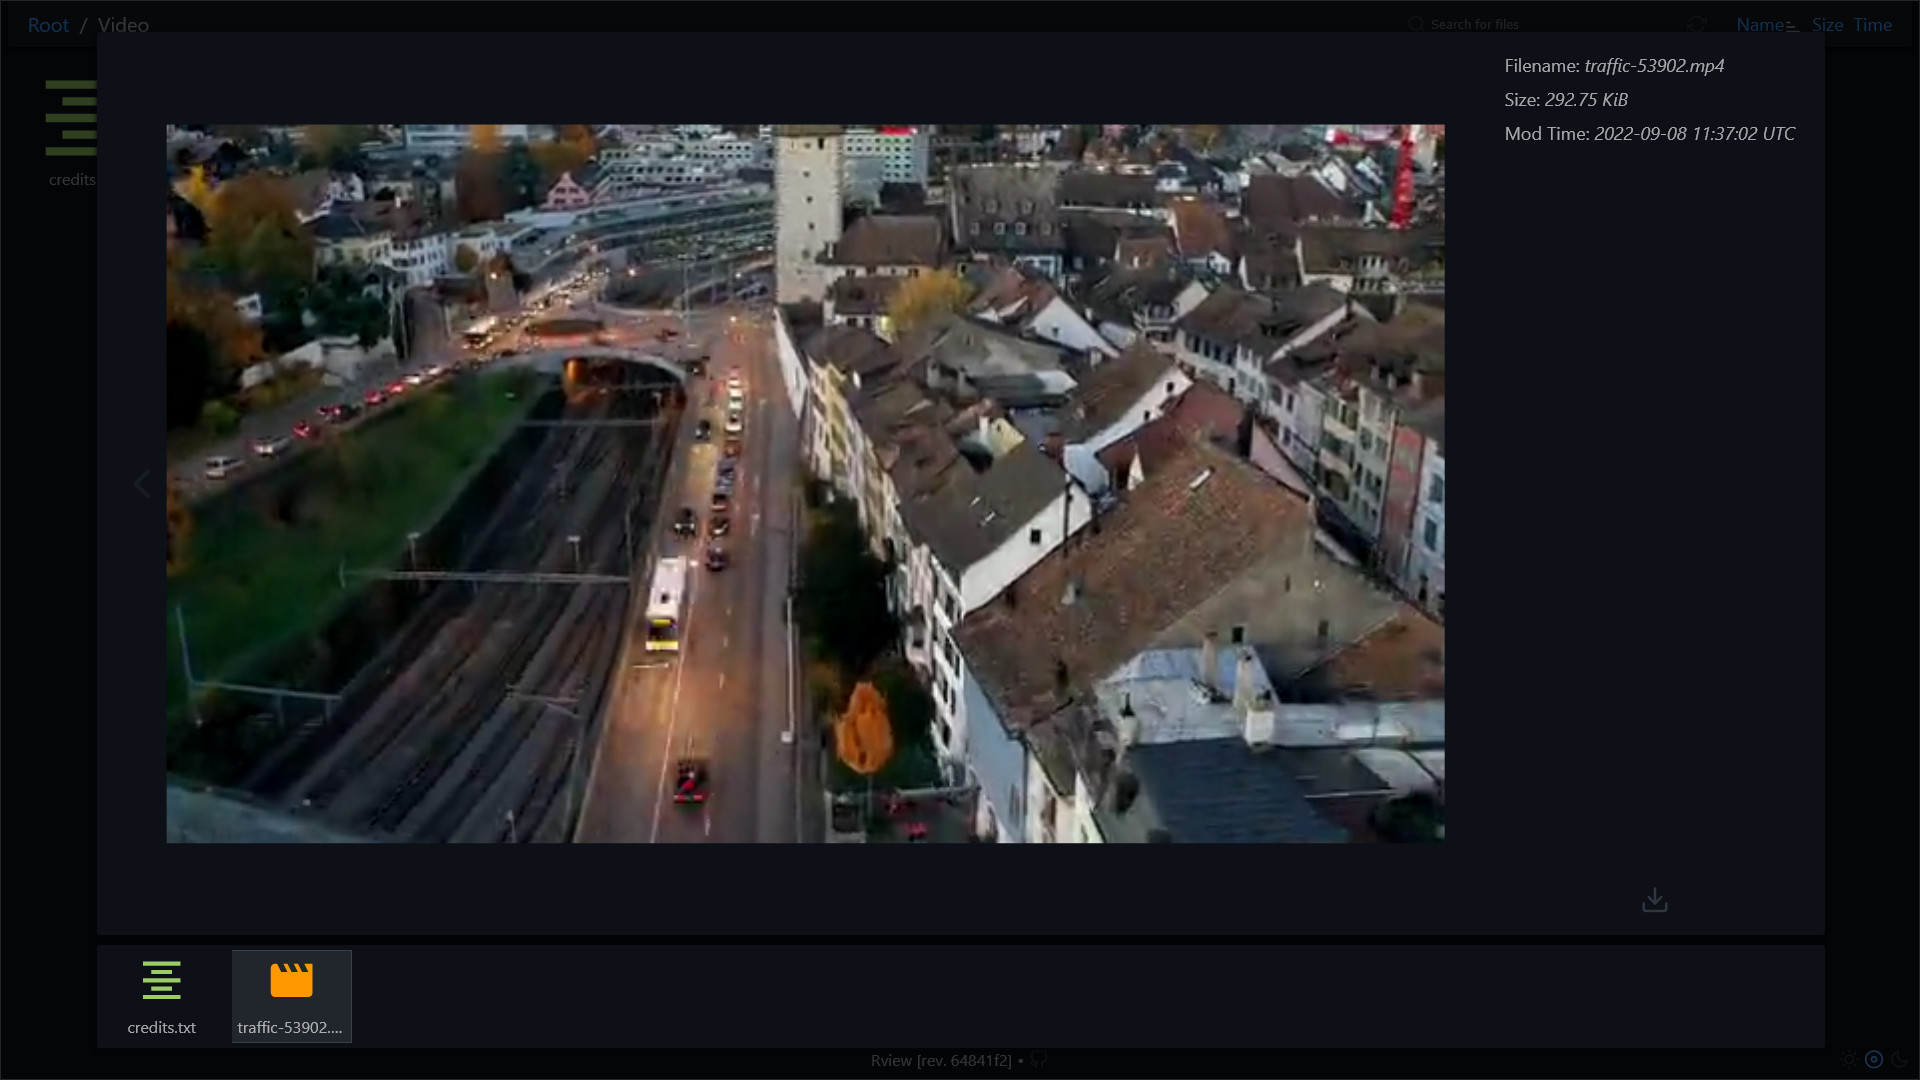
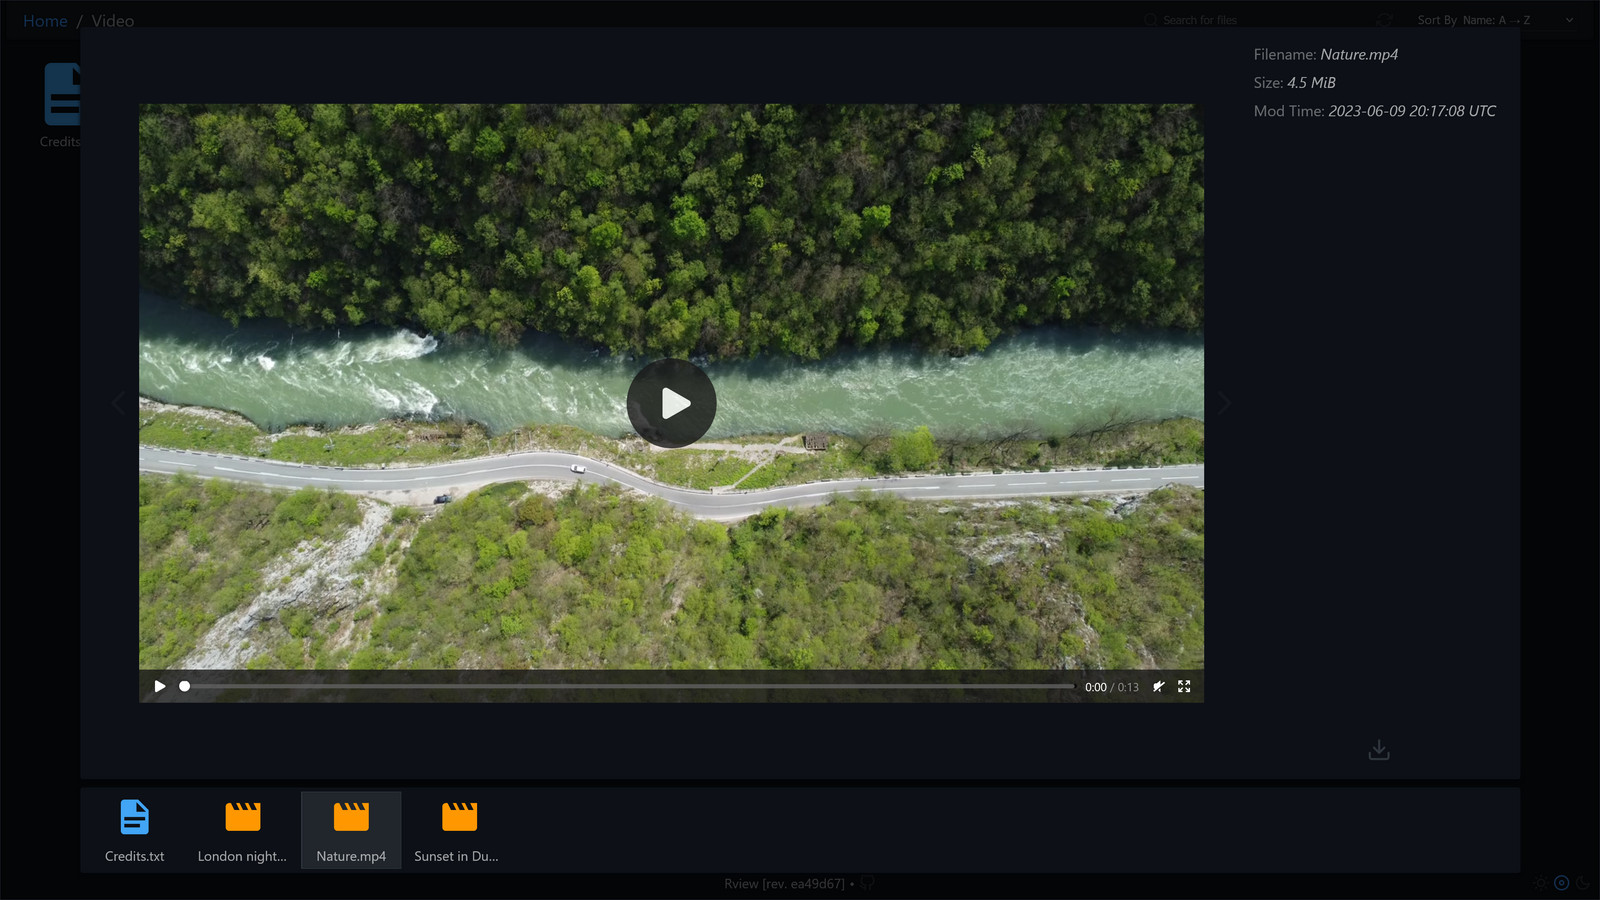
update screenshots

diff --git a/docs/Screenshots.md b/docs/Screenshots.md
@@ -10,8 +10,7 @@
 
 ## Dirs & Files
 
-<img src="screenshots/dir_root.jpg"></img>
-<img src="screenshots/dir_images.jpg"></img>
+<img src="screenshots/dir_home.jpg"></img>
 
 ## Previews
 
@@ -37,7 +36,7 @@
    add the following code to `common.css`:
 
    ```css
-   body,
+   #app,
    .preview-close-layer {
      border: 1px solid #21262d;
    }
@@ -45,17 +44,10 @@
 
    Note: `#21262d` is `var(--color-border-muted)` on GitHub.
 
-2. Use `tests/testdata` as `RCLONE_TARGET`.
-3. Remove files for testing corner-cases: `Images/vertical.jpg`, `test.gif` and so on.
+2. Prepare demo files.
 4. Make `.png` screenshots.
-5. Use this command to convert screenshots to `.jpg`:
+5. Use the following command to convert screenshots to `.jpg`:
 
    ```sh
-   vipsthumbnail --size 1920x1080 -o %s.jpg[Q=90,optimize_coding] *.png
-   ```
-
-6. Remove `.png` screenshots:
-
-   ```sh
-   rm *.png
+   vipsthumbnail --size 1600x900 -o ./jpg/%s.jpg[Q=90,optimize_coding] *.png
    ```

diff --git a/README.md b/README.md
@@ -1,7 +1,7 @@
 # `Rview` - web-based UI for Rclone
 
 <p align="center">
-  <img src="docs/screenshots/dir_images.jpg" width="90%">
+  <img src="docs/screenshots/dir_home.jpg" width="90%">
   <br>
   <i> More screenshots <a href="./docs/Screenshots.md">here</a> </i>
 </p>
